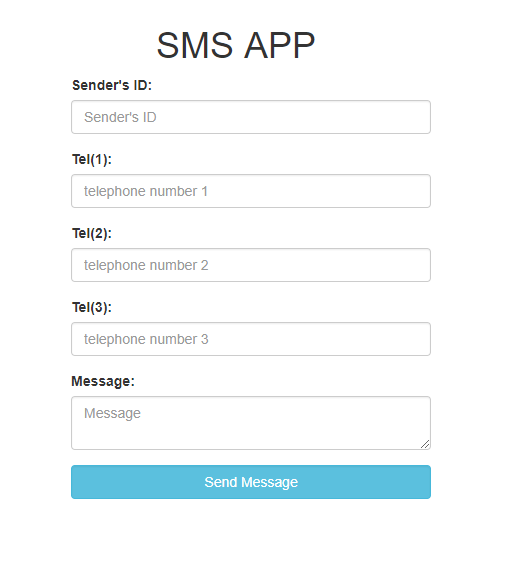
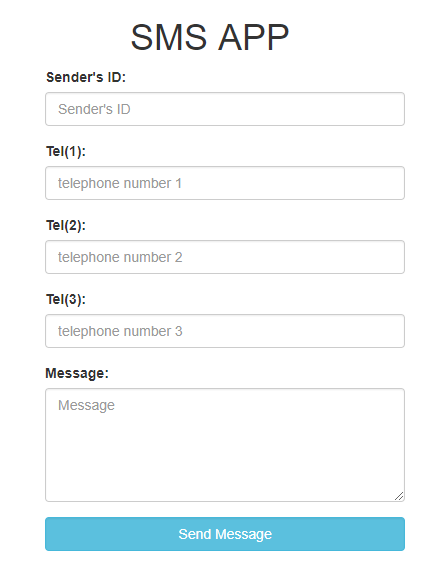
modifications made

diff --git a/index.html b/index.html
@@ -13,7 +13,7 @@
   </head>
   <body>
      <div class="container">
-       <div class="row" style="margin-top: 30px;">
+       <div class="row" style="margin-top: 15px;">
          <div class="col-md-4"></div>
          <div class="col-md-4">
            <h1 style="margin-left:85px;">SMS APP</h1>
@@ -40,7 +40,7 @@
               </div>
               <div class="form-group">
                 <label for="exampleInputPassword1">Message:</label>
-                <textarea placeholder="Message" class="form-control" id="message" name="message"></textarea>
+                <textarea placeholder="Message" class="form-control" id="message" name="message" rows="5"></textarea>
                 <span style="color: red" id="messagespan"></span>
               </div>
               <button type="submit" class="btn btn-info form-control">Send Message</button>
